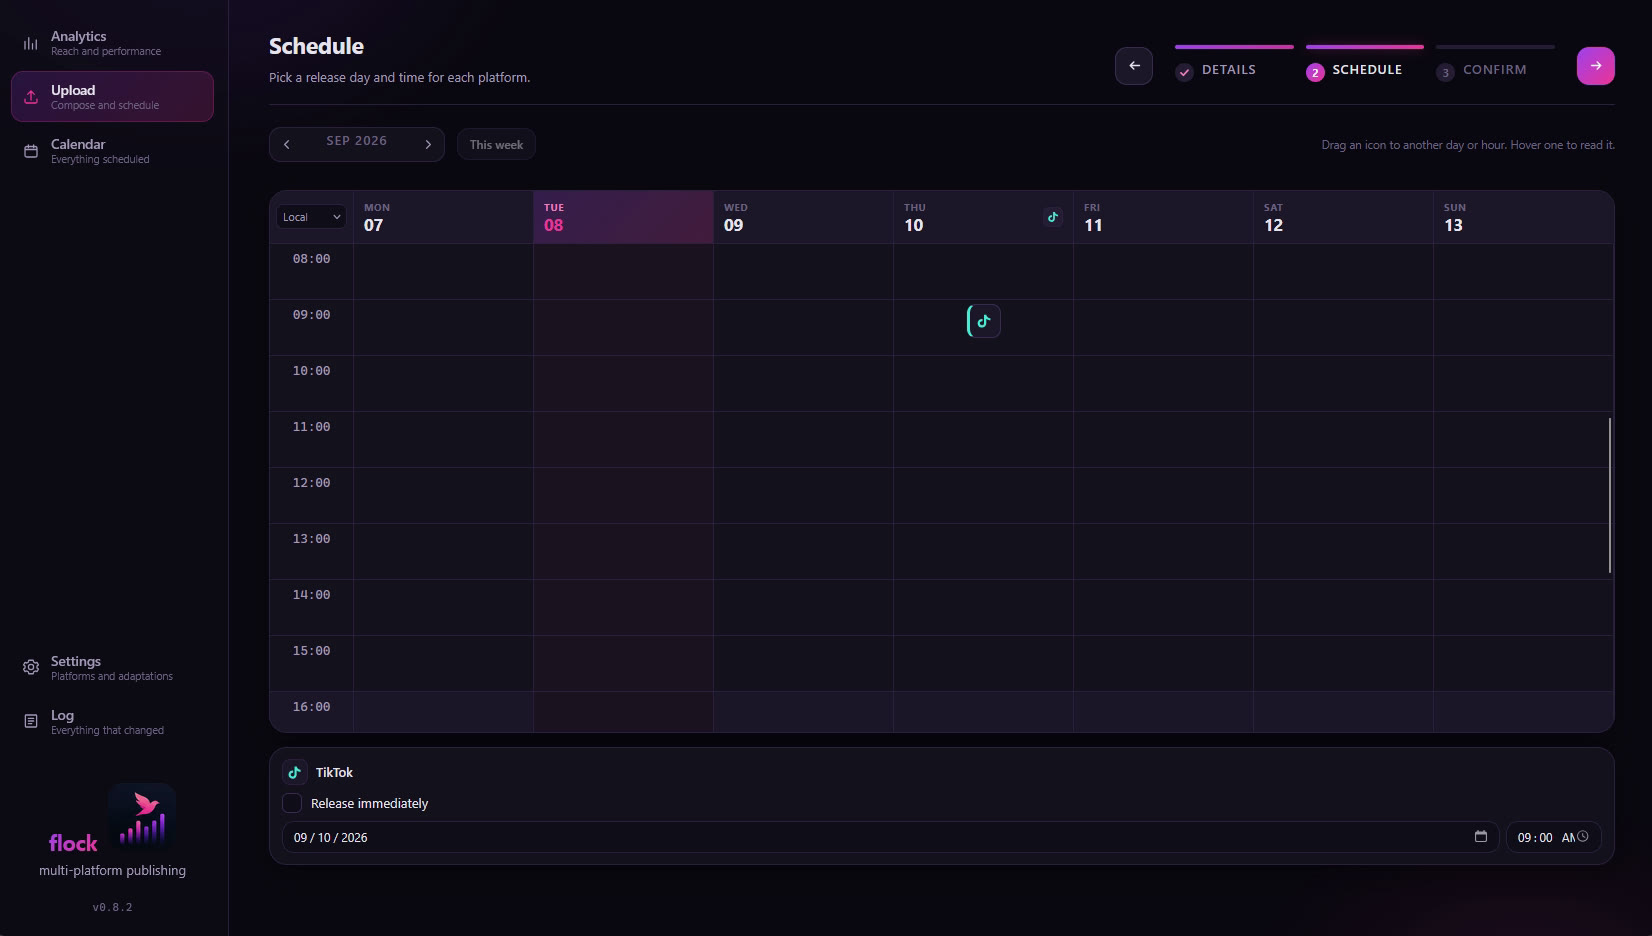
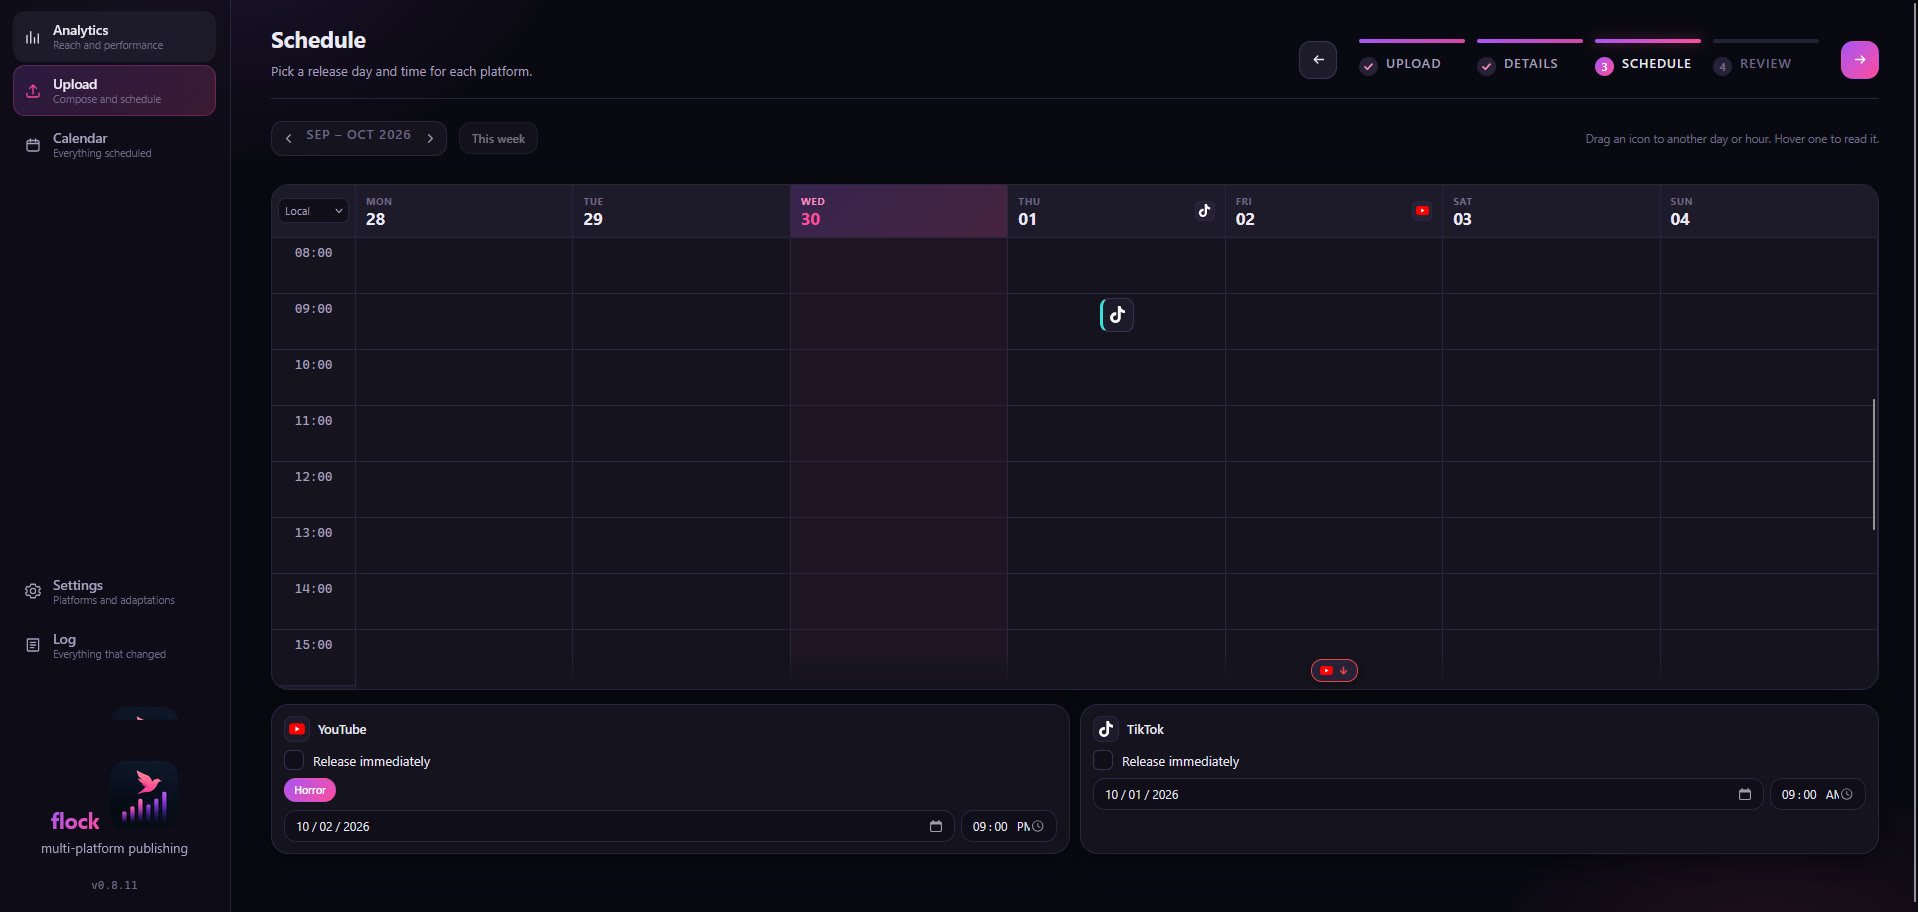
Website screenshots of the four-step upload flow
The user's own screenshots of Upload, Details, Schedule and Review replace
the frames cut from the review recordings, with the account name blurred and
placeholder links in the caption. The Post to TikTok box for the TikTok
section is cut from the Details shot, showing the audience unchosen and the
interactions off, as the guidelines want.

diff --git a/site/index.html b/site/index.html
@@ -98,36 +98,35 @@
 
   <section id="screens">
     <h2>The screens</h2>
-    <p class="sub">An upload is a few steps: pick the video, compose, schedule, review.</p>
+    <p class="sub">An upload is four steps: Upload, Details, Schedule, Review.</p>
 
     <figure class="shot">
-      <img src="img/compose.jpg" alt="The compose step with TikTok selected and its caption empty">
-      <figcaption>Compose: the text for the selected platform, the platforms this upload goes to, and the video.
-      With TikTok ticked, the <em>Post to TikTok</em> box asks who can view the video, with nothing preselected.</figcaption>
+      <img src="img/upload.jpg" alt="The Upload step: the video box on the left, the local and NAS file lists on the right">
+      <figcaption>Upload: pick the video. Drop a file on the box, or drag one from the lists of what is on this PC
+      and on the NAS; right-click plays it first. One video goes to every platform unless a platform is given a
+      cut of its own with the <em>Own file</em> buttons.</figcaption>
     </figure>
 
     <figure class="shot">
-      <img src="img/compose-tiktok.jpg" alt="The compose step with every TikTok choice made">
-      <figcaption>The same screen with every TikTok choice made: audience Private, comments allowed, the post
-      disclosed as promoting the creator's own brand, and TikTok's declaration line underneath.</figcaption>
+      <img src="img/details.jpg" alt="The Details step composing TikTok, with the Post to TikTok box on the right">
+      <figcaption>Details: the text for the platform being composed, switched with the icons at the top. With
+      TikTok selected, the <em>Post to TikTok</em> box names the account, asks who can view the video with
+      nothing preselected, leaves comments, Duet and Stitch off until ticked, and carries TikTok's declaration
+      line. Continue waits until the box is complete.</figcaption>
     </figure>
 
     <figure class="shot">
-      <img src="img/schedule.jpg" alt="The schedule step: a week grid with one card per platform">
-      <figcaption>Schedule: one card per platform on a week grid, dragged to its day and hour, or released
-      immediately.</figcaption>
+      <img src="img/schedule.jpg" alt="The Schedule step: a week grid with one card per platform">
+      <figcaption>Schedule: one card per platform on a week grid, dragged to its day and hour, typed exactly,
+      taken from a saved pattern, or released immediately.</figcaption>
     </figure>
 
     <figure class="shot">
-      <img src="img/confirm.jpg" alt="The review step: the video beside what each platform will receive">
-      <figcaption>Review: the video, what each platform will receive, the account it goes out as, and the
-      declaration, before anything is uploaded.</figcaption>
-    </figure>
-
-    <figure class="shot">
-      <img src="img/queued.jpg" alt="The queued screen after confirming">
-      <figcaption>After confirming: the video is stored and the release queued. The worker takes it from here,
-      and the notice says a TikTok post may take a few minutes to appear on the profile.</figcaption>
+      <img src="img/review.jpg" alt="The Review step: the video playing beside what each platform will receive">
+      <figcaption>Review: the video plays beside what each platform will receive and when, the account each post
+      goes out as, and TikTok's declaration, before anything is uploaded. Confirming stores the video and queues
+      the releases; the worker takes it from there, and a TikTok post may take a few minutes to appear on the
+      profile after it is posted.</figcaption>
     </figure>
   </section>
 
